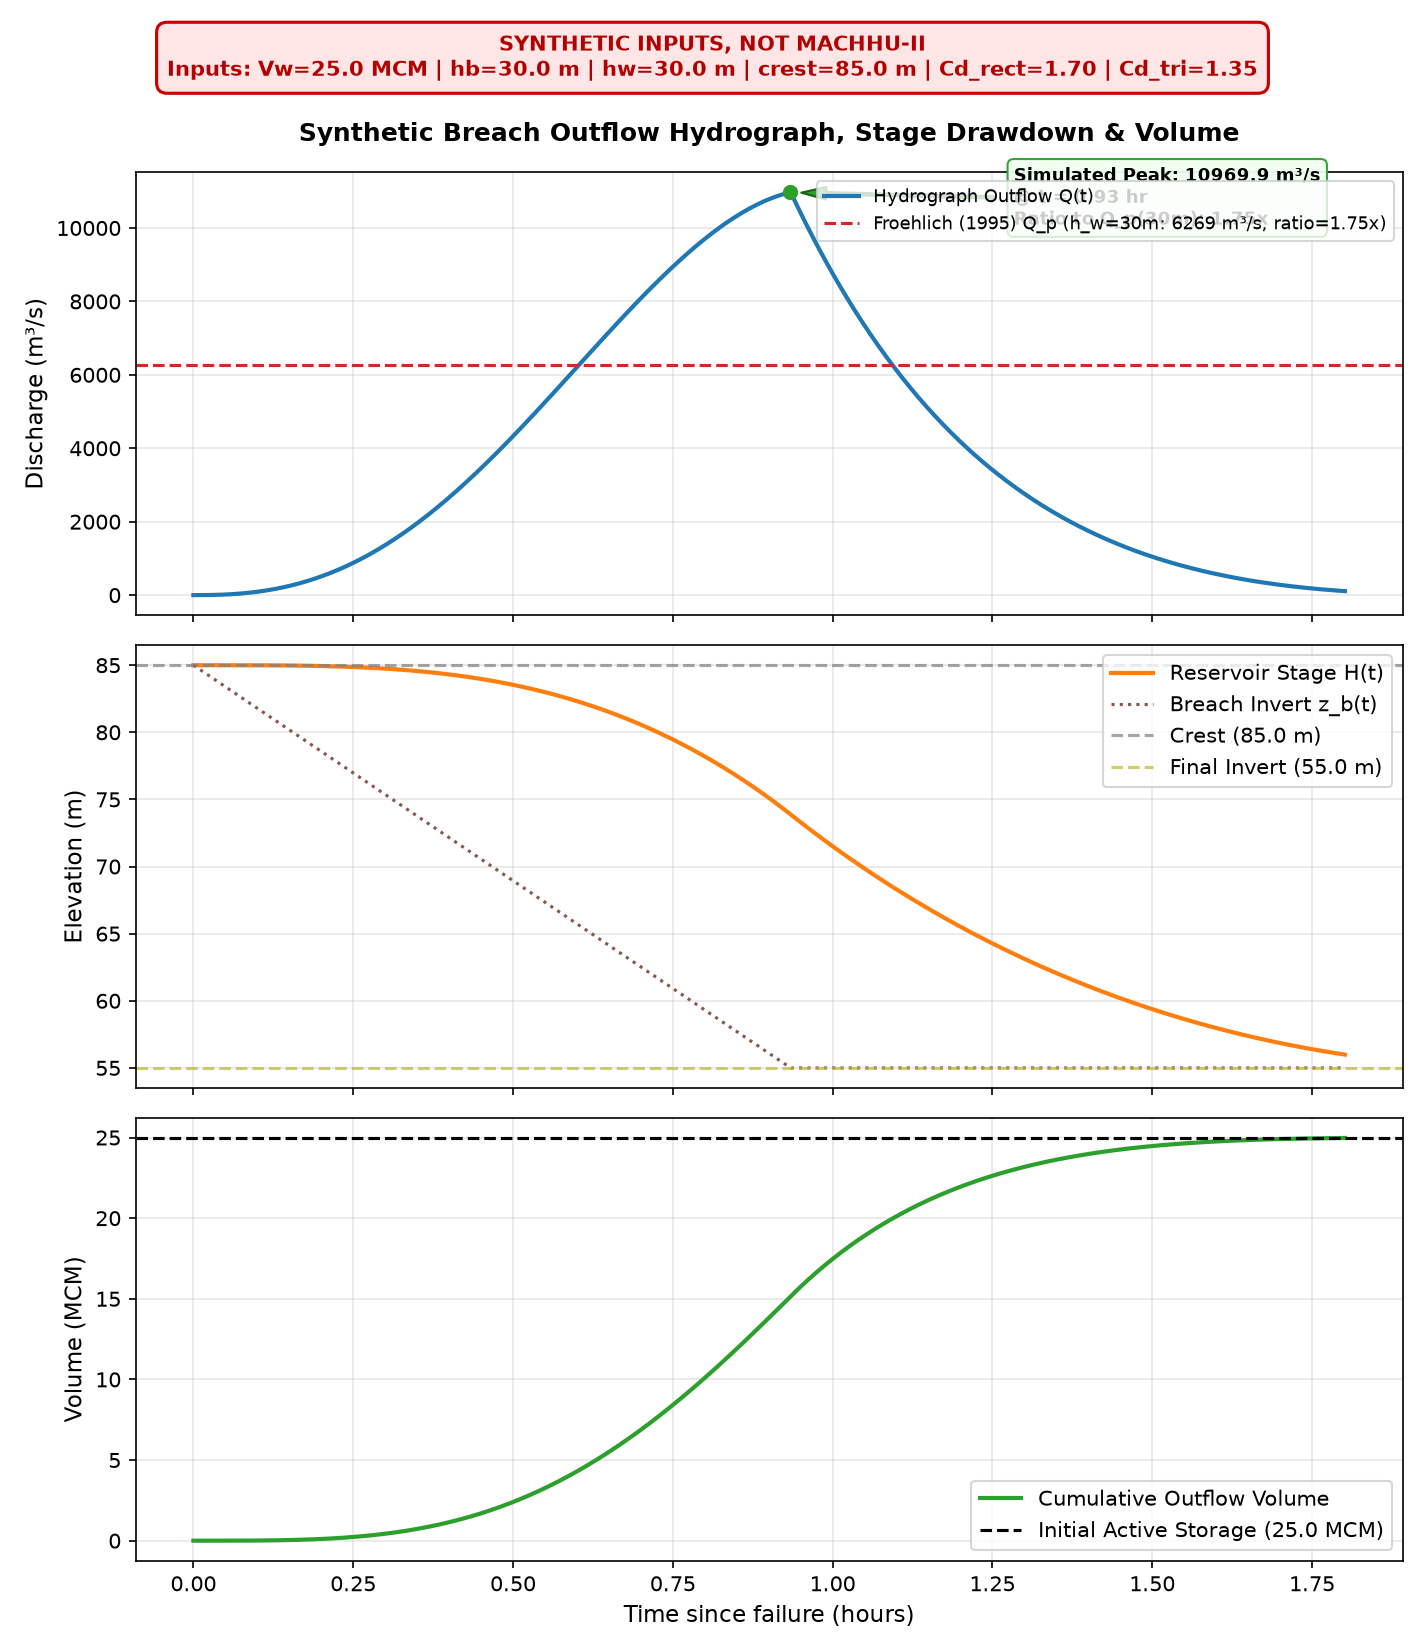
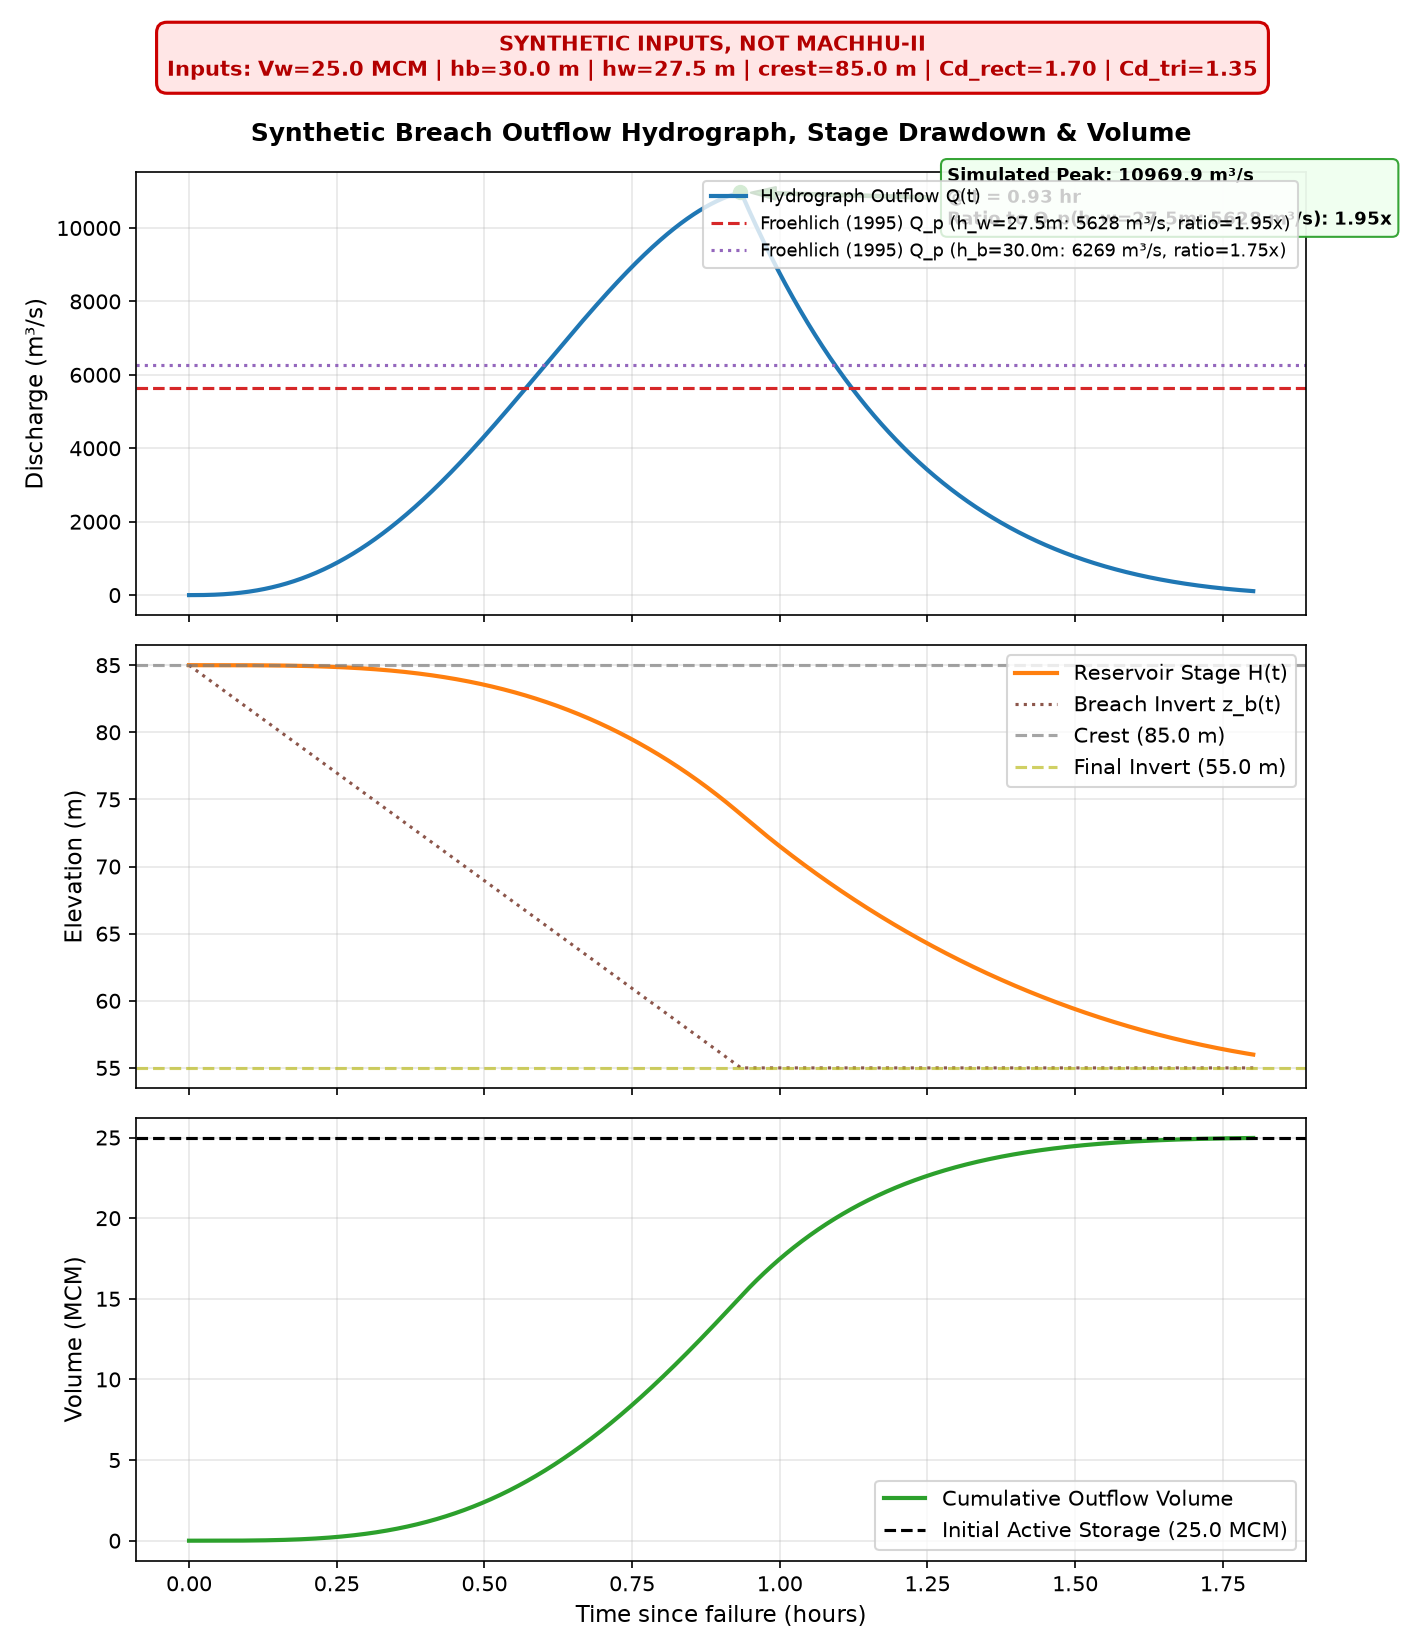
fix(figure): E reconcile Froehlich Qp at hw=27.5 to 5628 m3/s across figure and docs

diff --git a/scripts/plot_hydrograph.py b/scripts/plot_hydrograph.py
@@ -13,7 +13,7 @@ from damsight.breach.hydrograph import StageStorageCurve, generate_breach_hydrog
 def plot_hydrograph(
     reservoir_volume_m3: float = 2.5e7,
     breach_height_m: float = 30.0,
-    water_depth_m: float = 30.0,
+    water_depth_m: float = 27.5,
     crest_elevation_m: float = 85.0,
     cd_rect: float = 1.70,
     cd_tri: float = 1.35,
@@ -62,7 +62,20 @@ def plot_hydrograph(
     final_stage = float(res.stage_m[-1])
     first_clamp = res.first_clamp_step
 
+    # Froehlich empirical Qp computations
+    # Qp = 0.607 * (V_w)^0.295 * (h_w)^1.24
+    # At V_w = 2.5e7, h_w = 27.5m: Qp = 0.607 * (2.5e7)^0.295 * (27.5)^1.24 = 5627.99 m3/s ~= 5628 m3/s
+    qp_hw = 0.607 * (reservoir_volume_m3**0.295) * (water_depth_m**1.24)
+    qp_hb = 0.607 * (reservoir_volume_m3**0.295) * (breach_height_m**1.24)
+    ratio_hw = res.peak_discharge_hydrograph_m3s / qp_hw if qp_hw > 0 else 0.0
+
     print("\n--- SYNTHETIC HYDROGRAPH SIMULATION REPORT ---")
+    print(
+        f"  Froehlich Q_p (h_w={water_depth_m:.1f} m):          {qp_hw:.1f} m³/s (rounded {qp_hw:.0f} m³/s)"
+    )
+    print(
+        f"  Simulated Peak Q_peak:                   {res.peak_discharge_hydrograph_m3s:.1f} m³/s (ratio={ratio_hw:.2f}x)"
+    )
     print(
         f"  Residual above-invert volume:            {residual_frac * 100.0:.3f}% ({residual_vol:.1f} / {active_vol:.1f} m³)"
     )
@@ -77,9 +90,6 @@ def plot_hydrograph(
     )
     print(
         f"  Total steps executed:                    {len(res.time_s)} (Final outflow Q = {res.discharge_m3s[-1]:.4f} m³/s)"
-    )
-    print(
-        f"  Peak outflow:                            {res.peak_discharge_hydrograph_m3s:.1f} m³/s"
     )
     print("----------------------------------------------\n")
 
@@ -116,26 +126,22 @@ def plot_hydrograph(
     ax1 = axes[0]
     ax1.plot(time_hr, res.discharge_m3s, color="#1f77b4", lw=2, label="Hydrograph Outflow Q(t)")
 
-    # Froehlich empirical Qp comparisons
-    qp_30 = 0.607 * (reservoir_volume_m3**0.295) * (breach_height_m**1.24)
-    qp_hw = 0.607 * (reservoir_volume_m3**0.295) * (water_depth_m**1.24)
-    ratio_30 = res.peak_discharge_hydrograph_m3s / qp_30 if qp_30 > 0 else 0.0
-
+    # Froehlich empirical Qp lines
     ax1.axhline(
-        qp_30,
+        qp_hw,
         color="#d62728",
         ls="--",
         lw=1.5,
-        label=f"Froehlich (1995) Q_p (h_w=30m: {qp_30:.0f} m³/s, ratio={ratio_30:.2f}x)",
+        label=f"Froehlich (1995) Q_p (h_w={water_depth_m:.1f}m: {qp_hw:.0f} m³/s, ratio={ratio_hw:.2f}x)",
     )
-    if abs(qp_hw - qp_30) > 10.0:
-        ratio_hw = res.peak_discharge_hydrograph_m3s / qp_hw if qp_hw > 0 else 0.0
+    if abs(qp_hb - qp_hw) > 10.0:
+        ratio_hb = res.peak_discharge_hydrograph_m3s / qp_hb if qp_hb > 0 else 0.0
         ax1.axhline(
-            qp_hw,
+            qp_hb,
             color="#9467bd",
             ls=":",
             lw=1.5,
-            label=f"Froehlich (1995) Q_p (h_w={water_depth_m:.1f}m: {qp_hw:.0f} m³/s, ratio={ratio_hw:.2f}x)",
+            label=f"Froehlich (1995) Q_p (h_b={breach_height_m:.1f}m: {qp_hb:.0f} m³/s, ratio={ratio_hb:.2f}x)",
         )
 
     peak_idx = int(np.argmax(res.discharge_m3s))
@@ -145,7 +151,7 @@ def plot_hydrograph(
     ax1.annotate(
         f"Simulated Peak: {res.peak_discharge_hydrograph_m3s:.1f} m³/s\n"
         f"@ t = {time_hr[peak_idx]:.2f} hr\n"
-        f"Ratio to Q_p(30m): {ratio_30:.2f}x",
+        f"Ratio to Q_p(h_w={water_depth_m:.1f}m: {qp_hw:.0f} m³/s): {ratio_hw:.2f}x",
         xy=(time_hr[peak_idx], res.peak_discharge_hydrograph_m3s),
         xytext=(time_hr[peak_idx] + 0.35, res.peak_discharge_hydrograph_m3s * 0.92),
         arrowprops={
@@ -228,7 +234,7 @@ def main():
     )
     parser.add_argument("--vw", type=float, default=2.5e7, help="Reservoir volume (m3)")
     parser.add_argument("--hb", type=float, default=30.0, help="Breach height (m)")
-    parser.add_argument("--hw", type=float, default=30.0, help="Water depth (m)")
+    parser.add_argument("--hw", type=float, default=27.5, help="Water depth (m)")
     parser.add_argument("--crest", type=float, default=85.0, help="Crest elevation (m)")
     args = parser.parse_args()
 
